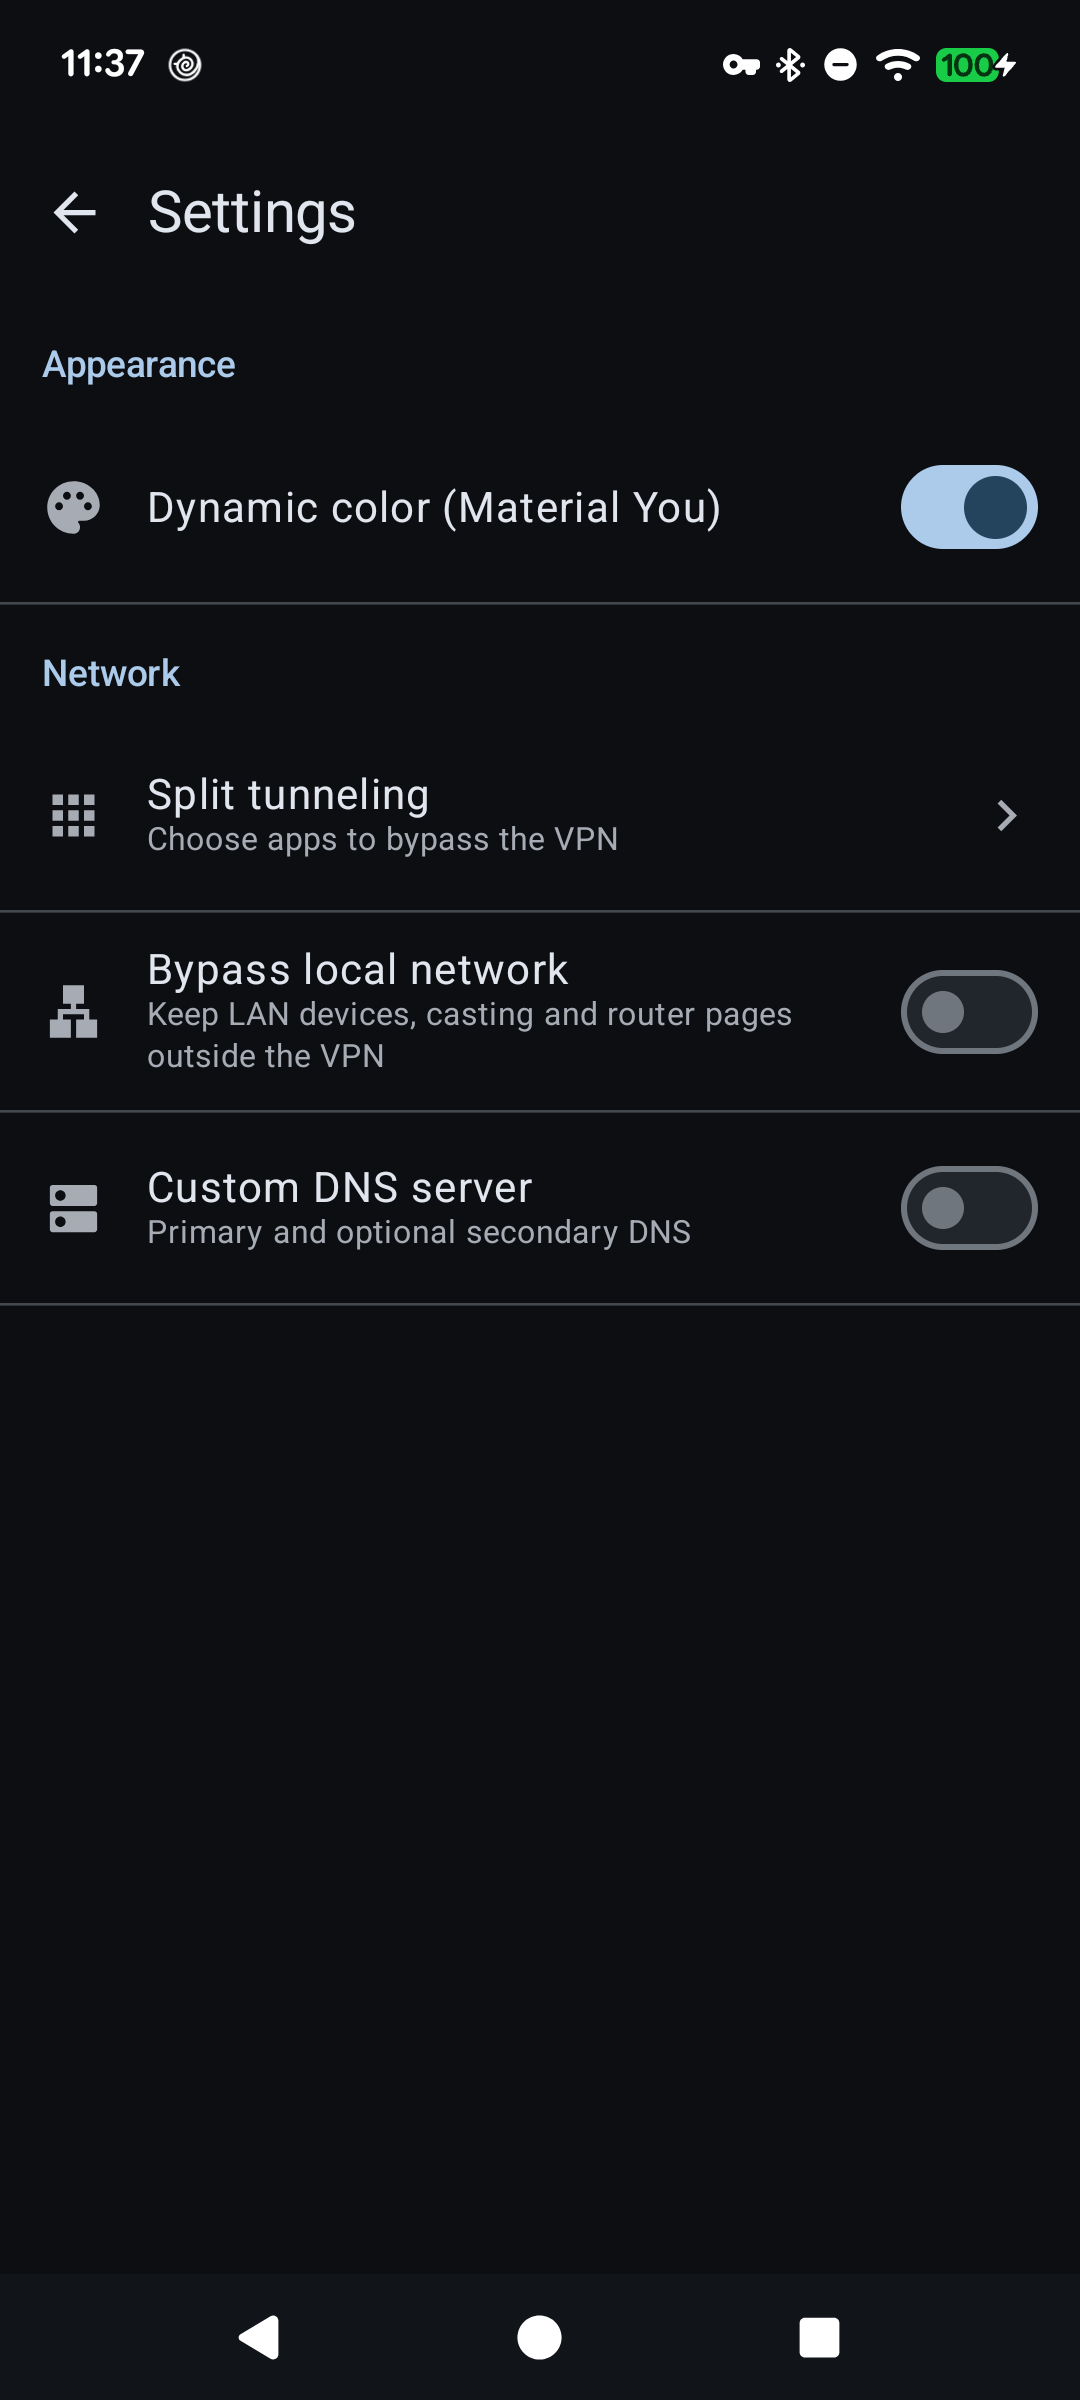
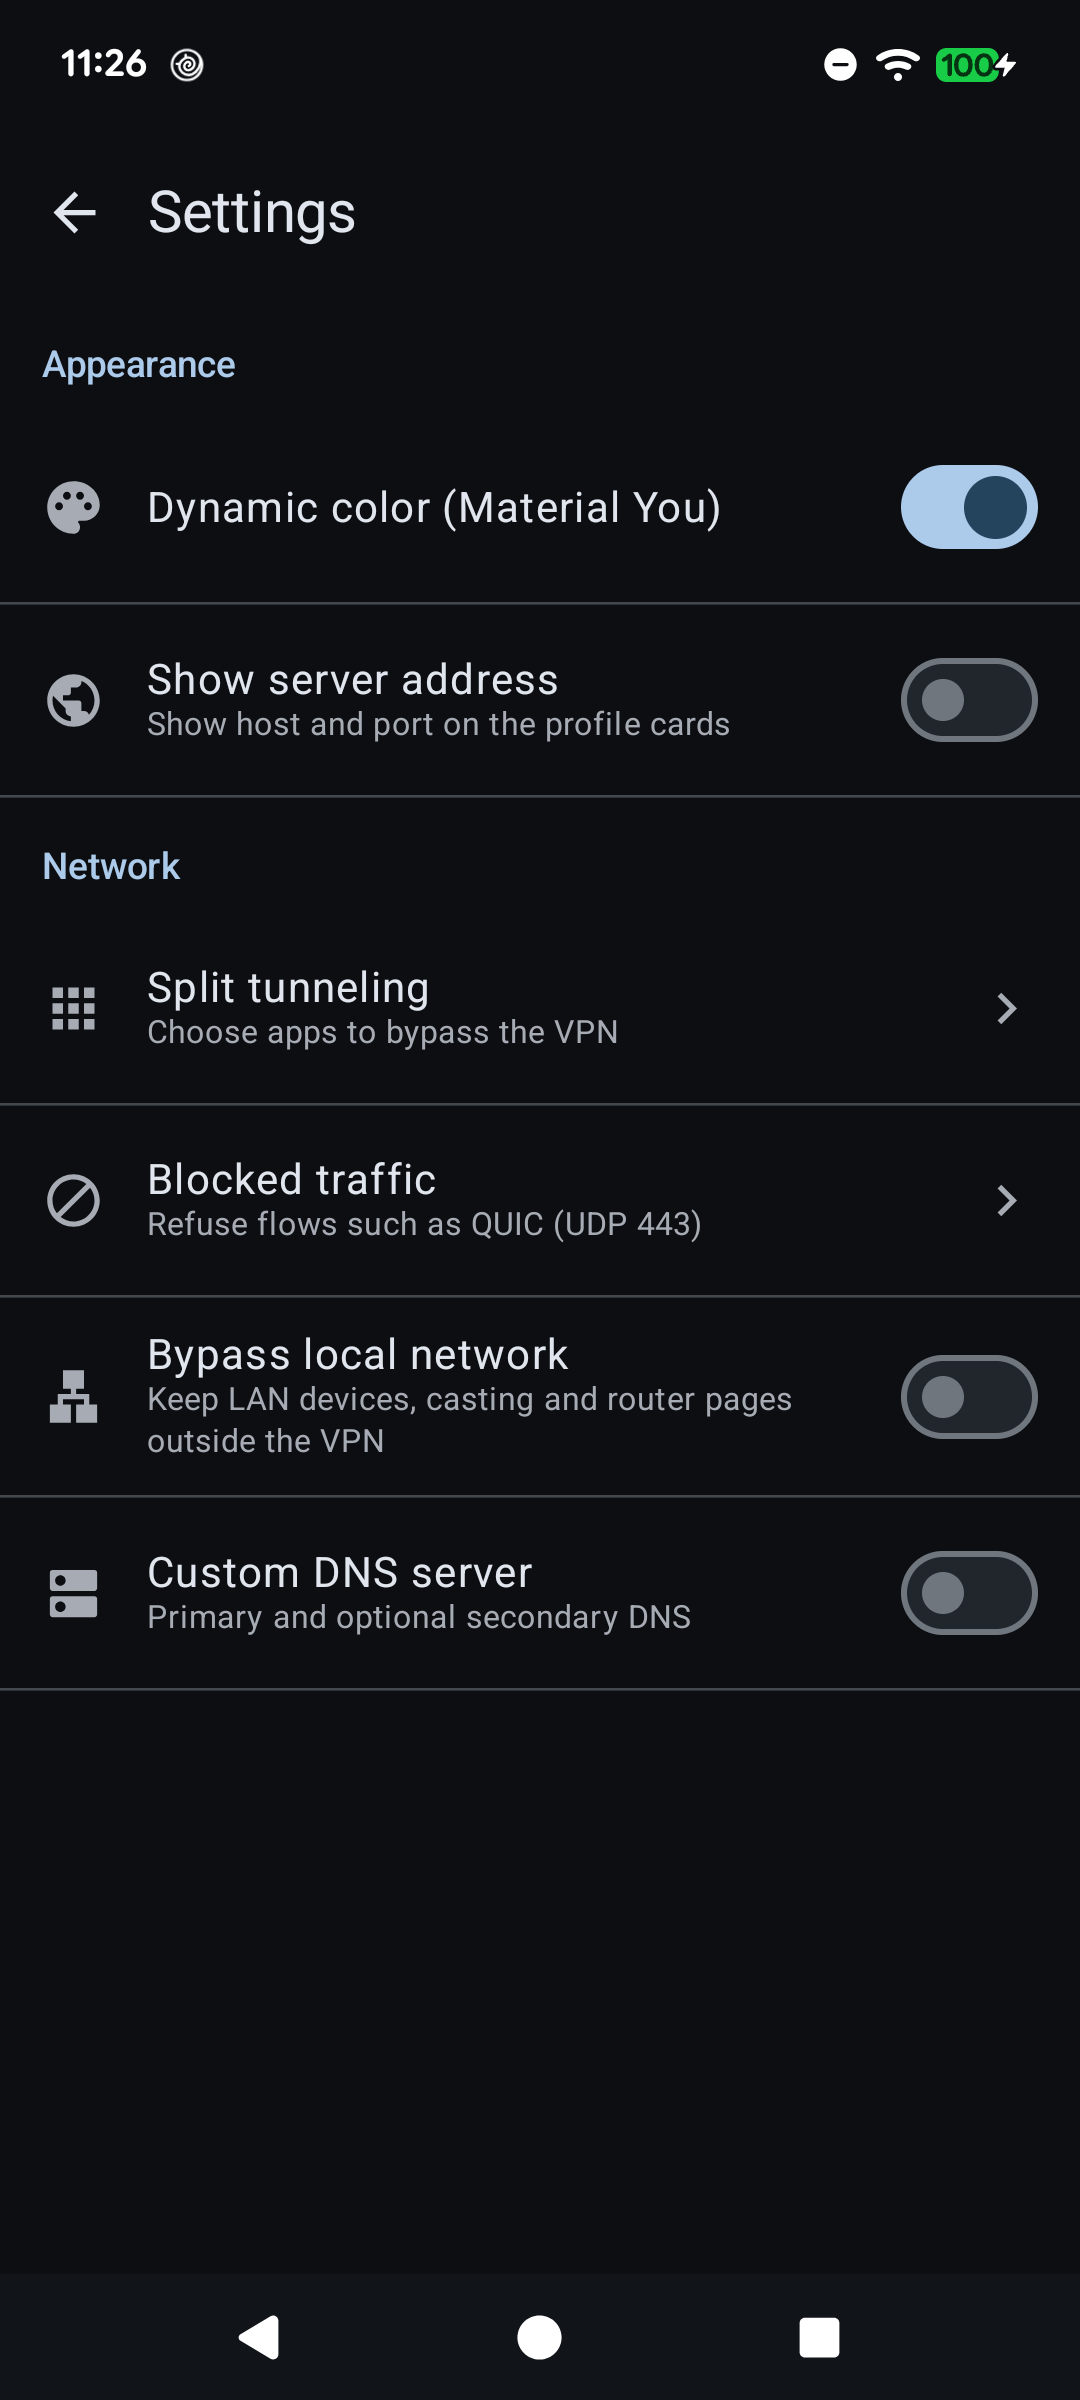
docs: refresh the settings screenshot
Shows the current Settings screen: the new Show server address switch under Appearance and the Blocked traffic entry under Network; alt text updated to match.

diff --git a/README.md b/README.md
@@ -11,7 +11,7 @@ Requires **Android 11 (API 30) or newer**. Ships `arm64-v8a`, `armeabi-v7a`,
 
 <p align="center">
   <img src="screenshots/s1.png" width="300" alt="Home screen showing the tunnel status and saved profiles">
-  <img src="screenshots/s2.png" width="300" alt="Settings screen with appearance, split tunnelling, LAN bypass and DNS options">
+  <img src="screenshots/s2.png" width="300" alt="Settings screen with appearance options, split tunnelling, blocked traffic, LAN bypass and custom DNS">
 </p>
 
 ## Features
